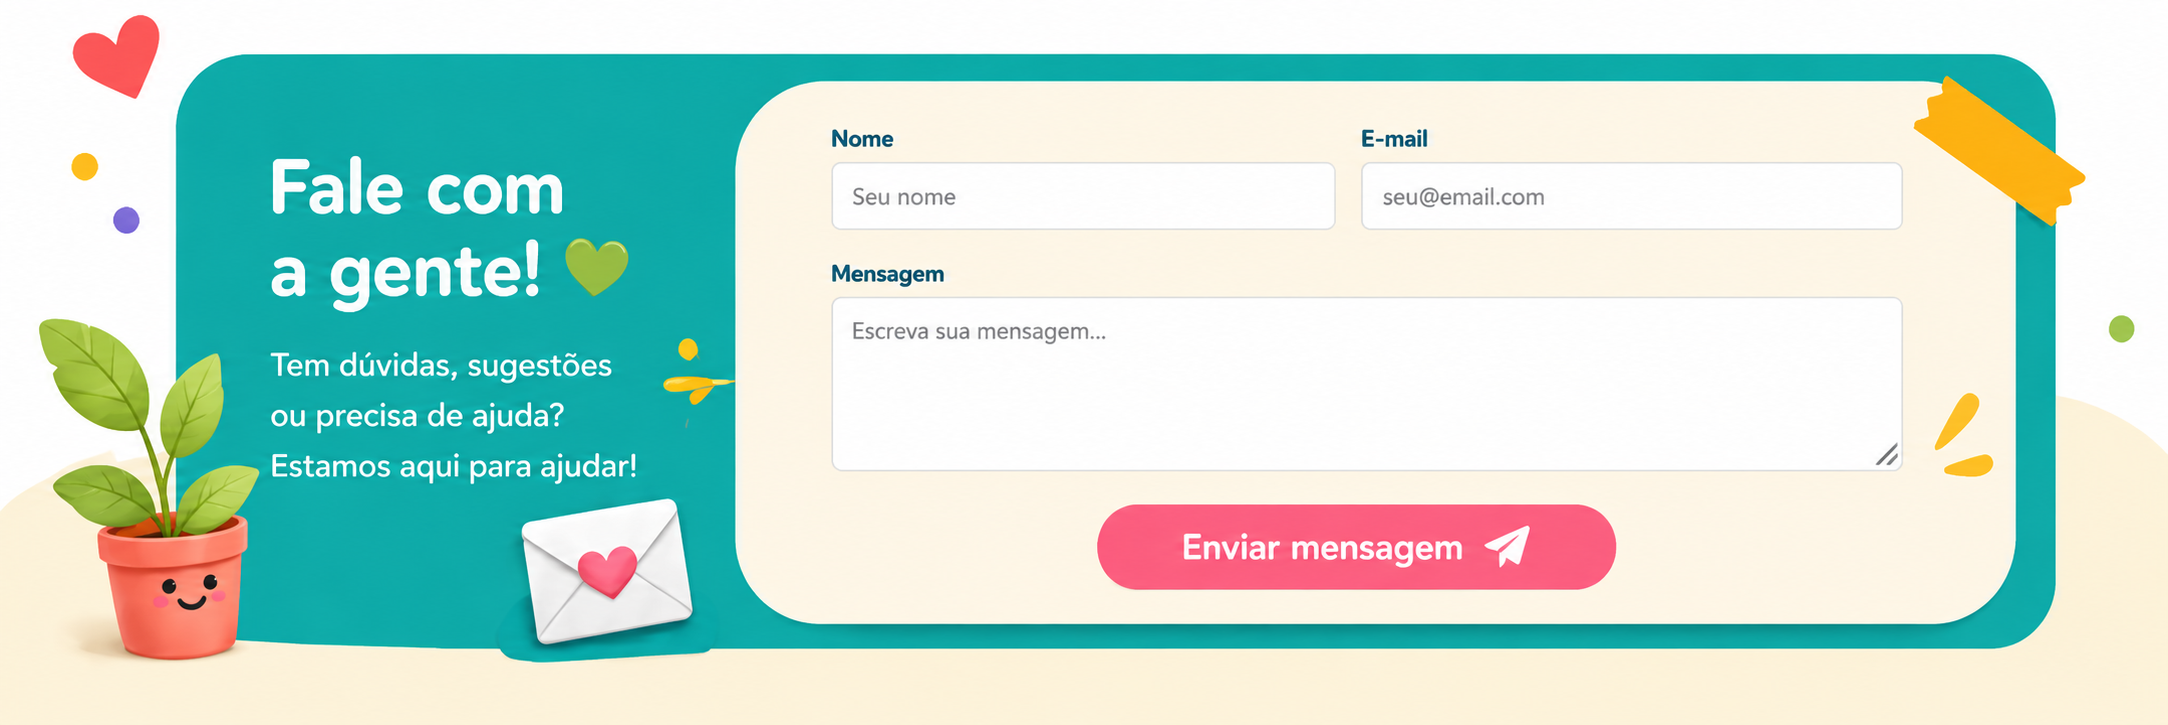
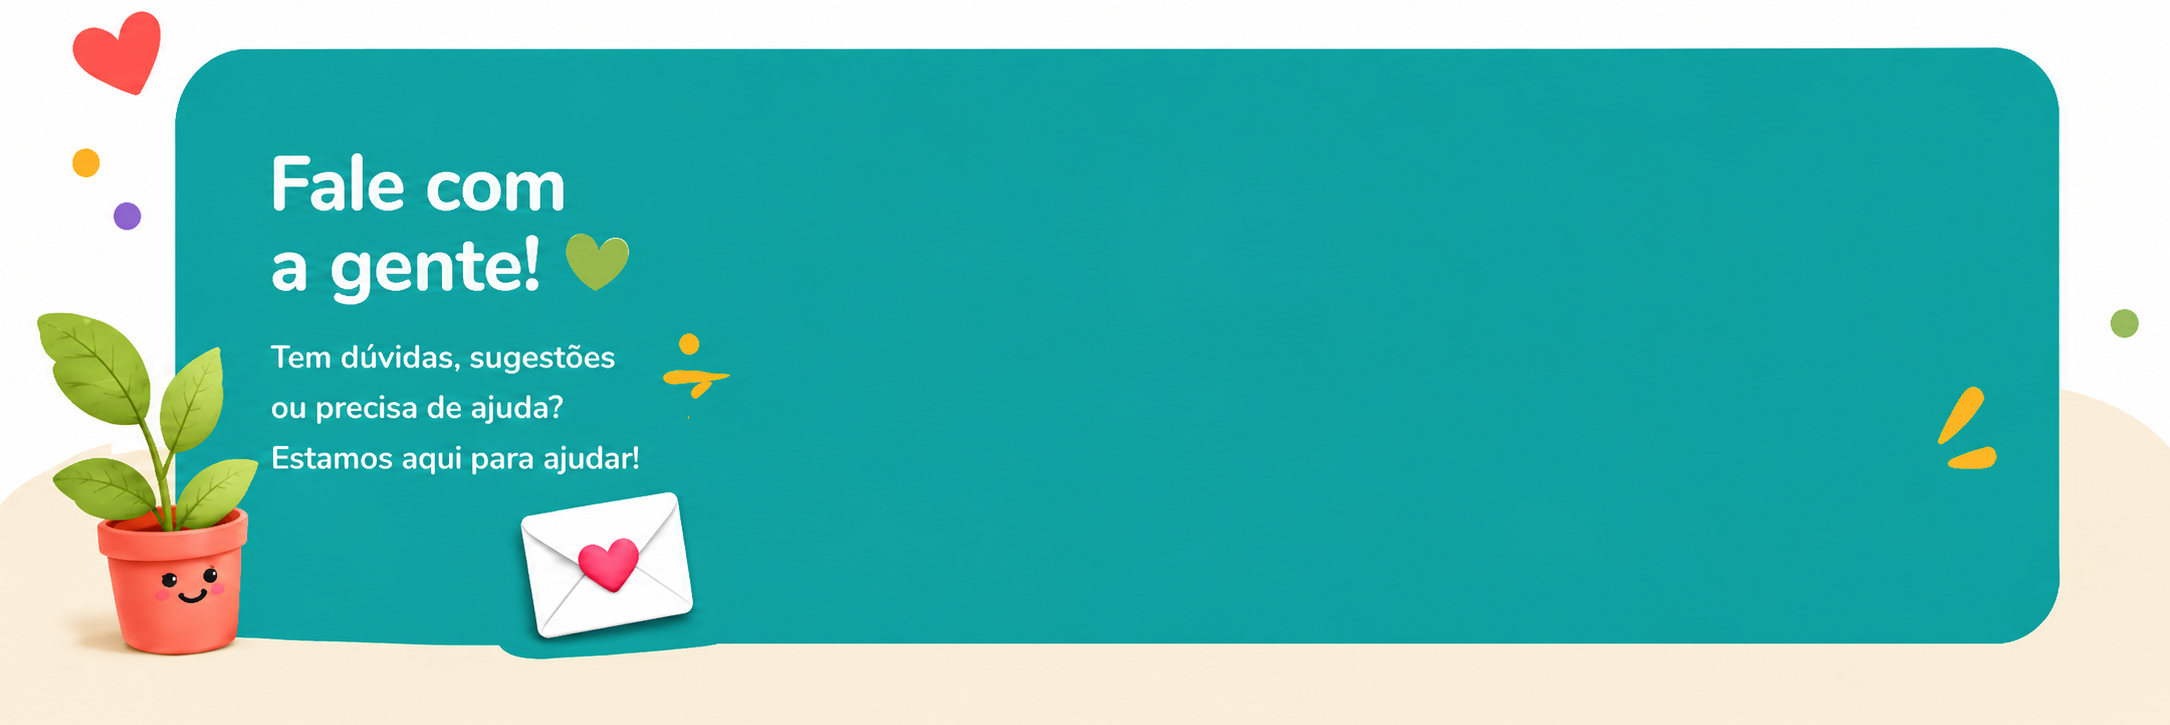
Update site content and admin views

diff --git a/index.html b/index.html
@@ -198,6 +198,25 @@
       overflow: hidden;
     }
 
+    .hero--hidden {
+      display: none;
+    }
+
+    .hero-top-banner {
+      margin-top: 18px;
+      border: 1px solid rgba(216, 210, 198, 0.75);
+      border-radius: 36px;
+      box-shadow: var(--shadow);
+      overflow: hidden;
+      background: rgba(255, 255, 255, 0.72);
+    }
+
+    .hero-top-banner img {
+      width: 100%;
+      height: auto;
+      display: block;
+    }
+
     .hero::before {
       content: "";
       position: absolute;
@@ -681,6 +700,10 @@
         background-image: none;
       }
 
+      .hero-top-banner {
+        margin-top: 18px;
+      }
+
       .hero-grid > div:first-child {
         max-width: none;
       }
@@ -720,6 +743,9 @@
       .hero {
         background-image: none;
       }
+      .hero-top-banner {
+        border-radius: 28px;
+      }
       .contact-card {
         min-height: 160px;
       }
@@ -749,8 +775,7 @@
 
       <nav class="nav" aria-label="Navegação principal">
         <a class="active" href="#inicio">Início</a>
-        <a href="#categorias">Categorias</a>
-        <a href="#sobre">Sobre</a>
+        <a href="#categorias">Materiais</a>
         <a href="#contato">Contato</a>
       </nav>
 
@@ -769,7 +794,11 @@
       </a>
     </header>
 
-    <section class="hero" id="inicio">
+    <section class="hero-top-banner" aria-label="Imagem de destaque">
+      <img src="images/hero-2.jpeg" alt="Imagem de destaque da Papelê Educa" />
+    </section>
+
+    <section class="hero hero--hidden" id="inicio">
       <div class="hero-grid">
         <div>
           <h1>

diff --git a/js/public-products.js b/js/public-products.js
@@ -30,8 +30,8 @@ async function loadProducts() {
     return;
   }
 
-  const categoriesData = data.slice(0, 3);
-  const featuredData = data.slice(0, 6);
+  const categoriesData = data.slice(0, 6);
+  const featuredData = data.slice(0, 3);
 
   if (categoriesGrid) {
     categoriesGrid.innerHTML = categoriesData

diff --git a/atividades.html b/atividades.html
@@ -441,7 +441,6 @@
       <nav class="nav" aria-label="Navegação principal">
         <a href="./index.html">Início</a>
         <a class="active" href="./atividades.html">Atividades</a>
-        <a href="./index.html#sobre">Sobre</a>
         <a href="./index.html#contato">Contato</a>
       </nav>
 
